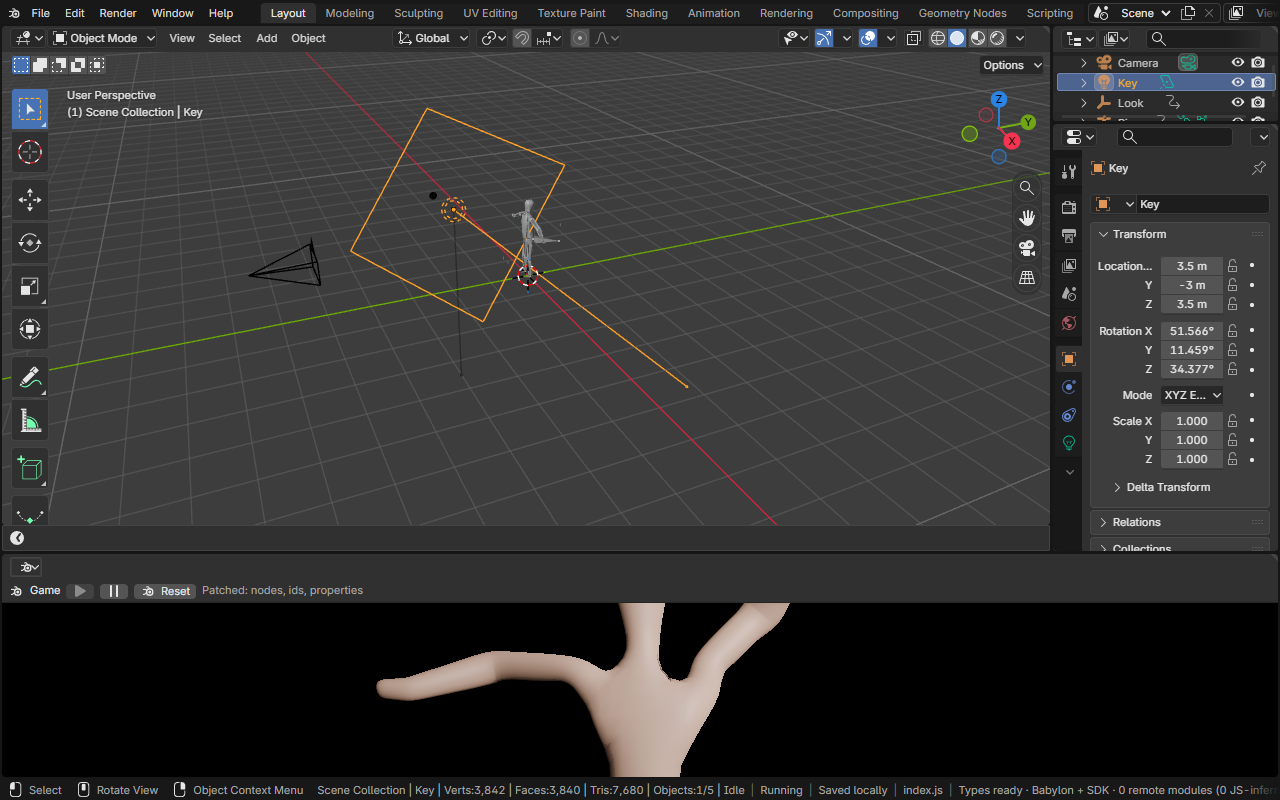
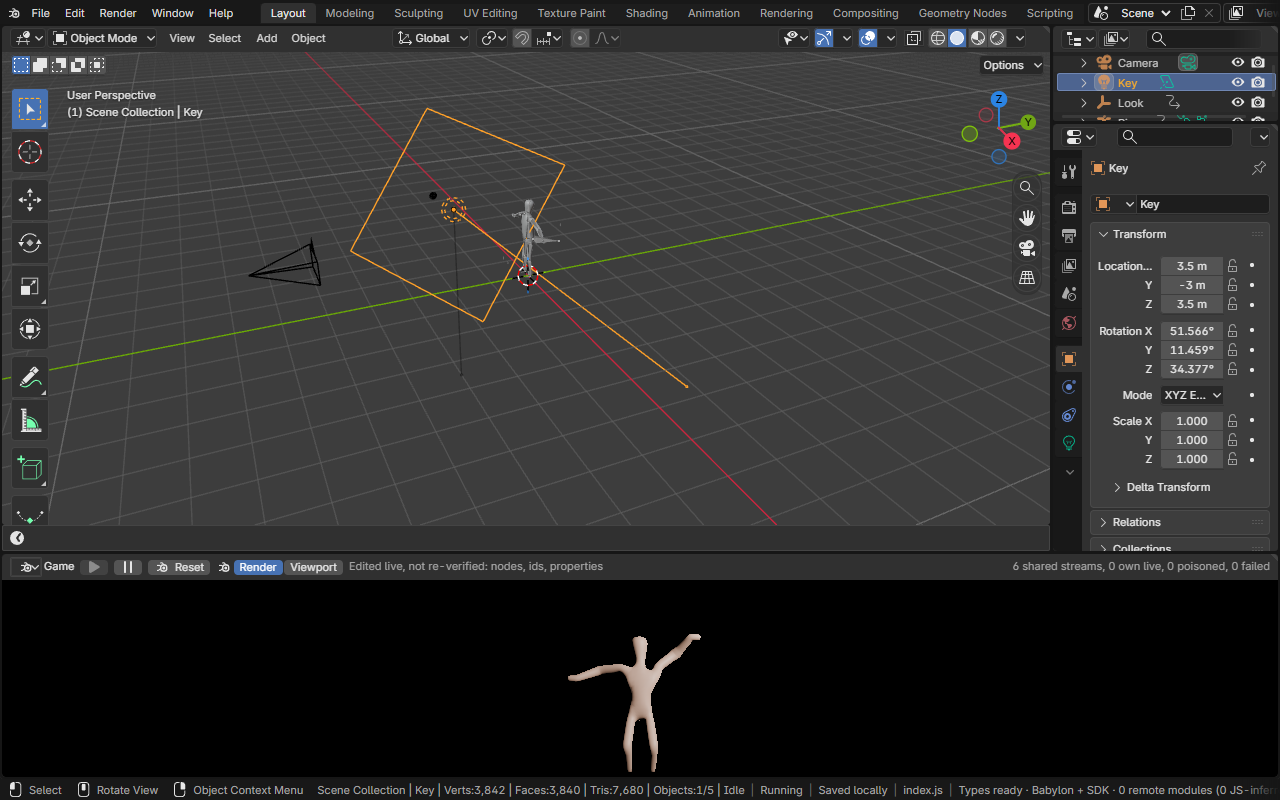
The Game page shows the Game as it now runs, in the app's own area, with pictures of its Viewport and Render choice; its header labels no longer select as text
Claude-Session: https://claude.ai/code/session_01PQ7TRPEHBjaE2nt66NvYBK

Changed region(s): [[0.0, 0.6875, 1.0, 0.9688]]

diff --git a/src/editors/space_game/GameView.vue b/src/editors/space_game/GameView.vue
@@ -11,7 +11,7 @@ onMounted(() => host.value.append(props.canvas));
 
 <template>
   <Teleport :to="header">
-    <div class="bl-ui flex min-w-0 flex-1 items-center gap-2 text-sm text-foreground">
+    <div class="bl-ui flex min-w-0 flex-1 items-center gap-2 text-sm text-foreground select-none">
       <span>Game</span>
       <Button size="sm" variant="secondary" :disabled="busy || (running && !paused)" title="Play the scene as an exported page runs it" @click="$emit(running ? 'pause' : 'play')">
         <BlIcon name="PLAY" />

diff --git a/docs/features/game.md b/docs/features/game.md
@@ -11,6 +11,8 @@ thumbnail: game/thumbnail.png
 media:
   - game/play.gif
   - game/edit.gif
+  - game/stack-render.png
+  - game/stack-viewport.png
 ui:
   - TOPBAR_MT_file_export
 operators:
@@ -69,7 +71,12 @@ own editor, chosen from an area's editor type menu.
 
 3. Choose the modifier stack the game evaluates in its header, Viewport or Render. It is the scene's export setting
    (File > Export > JavaScript's Modifier Stack, saved in the .blend), Render by default. Choosing one exports the scene
-   again and loads the game fresh; the header says so.
+   again and loads the game fresh; the header says so. Here the body's Armature modifier is off in viewports and on in
+   renders: Render poses the body by its rig, Viewport leaves it at rest.
+
+   ![Render chosen](../media/features/game/stack-render.png)
+
+   ![Viewport chosen, the game loaded fresh](../media/features/game/stack-viewport.png)
 
 ## Project files
 
